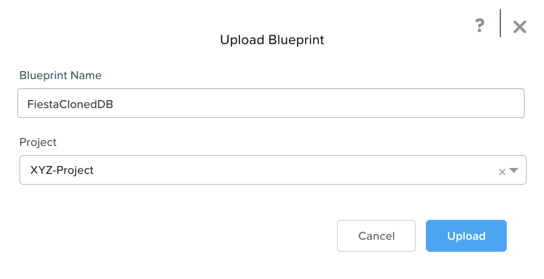
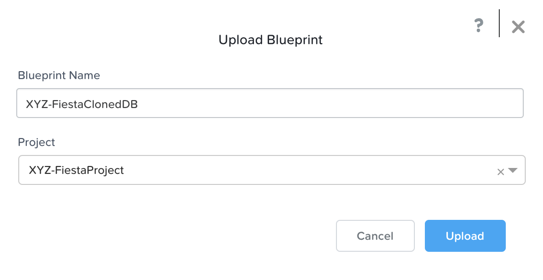
Missing Initials in DB labs

diff --git a/db/mssqldeploy/mssqldeploy.rst b/db/mssqldeploy/mssqldeploy.rst
@@ -444,7 +444,7 @@ Manipulating data using **SQL Server Management Studio** is boring, especially w
 
 #. Click **Launch** and fill out the following fields:
 
-   - **Name of the Application** - XYZ-Fiesta
+   - **Name of the Application** - *Initials*\ -Fiesta
    - **db_dialect** - mssql
    - **db_domain_name** - ntnxlab.local
    - **db_host_address** - The IP of your *Initials*\ **-MSSQL2** VM

diff --git a/db/gettingstarted/gettingstarted.rst b/db/gettingstarted/gettingstarted.rst
@@ -86,7 +86,6 @@ In this lab you will leverage multiple pre-built Calm Blueprints to provision yo
 #. Fill out the following fields:
 
    - **Project Name** - *Initials*\ -Project
-   - **AHV Cluster** - *Your assigned cluster*
    - Under **Users, Groups, and Roles**, select **+ User**
       - **Name** - Administrators
       - **Role** - Project Admin

diff --git a/db/cloning/cloning.rst b/db/cloning/cloning.rst
@@ -65,6 +65,8 @@ Databases aren't applications, they can be comprised of multiple components. For
 
 #. Select **FiestaClonedDB.json**.
 
+#. Update the **Blueprint Name** to include your initials.
+
 #. Select your Calm project and click **Upload**.
 
    .. figure:: images/4.png
